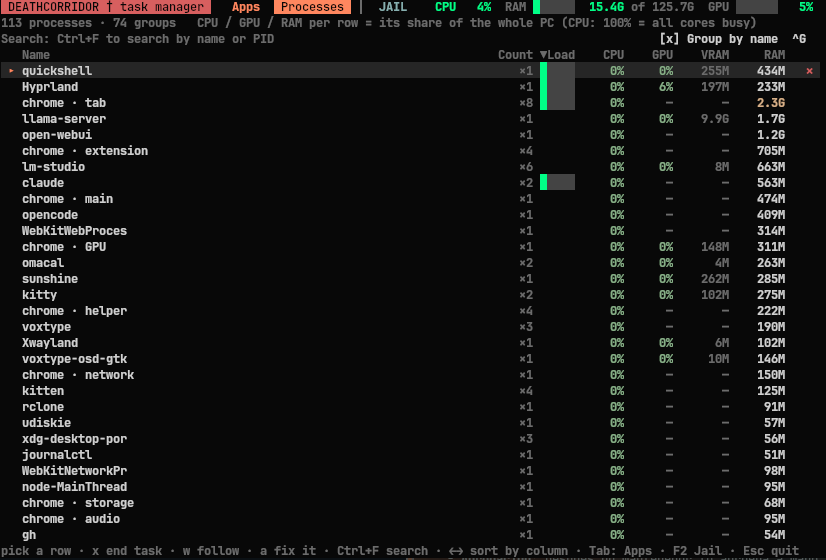
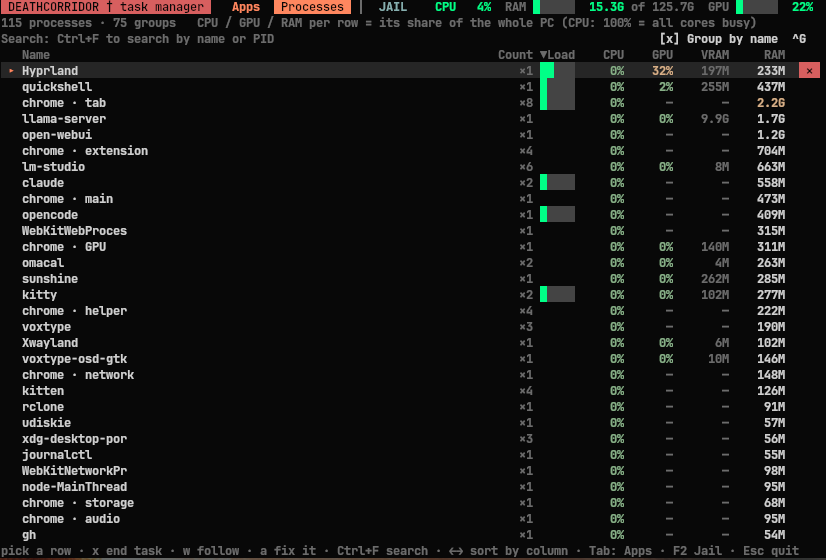
Clean screenshots taken on an empty workspace

diff --git a/README.md b/README.md
@@ -8,6 +8,10 @@ A Ctrl+Alt+Del for Omarchy that a new Linux user can actually use. It is a termi
 
 **Follow a program** (`w`): flag any app with `w` (it gets a `◉`). deathcorridor records when it starts, exits, crashes, hangs, hogs a CPU core or grows in memory, and keeps CPU/RAM samples. Fix it sends the AI the whole timeline; afterwards it checks the app stays healthy for 10 minutes and tells you when it is fixed (desktop notification), or brings it back if it fails again.
 
+![Processes](docs/processes.png)
+
+![JAIL following a program](docs/jail.png)
+
 ## Install
 
 ```
